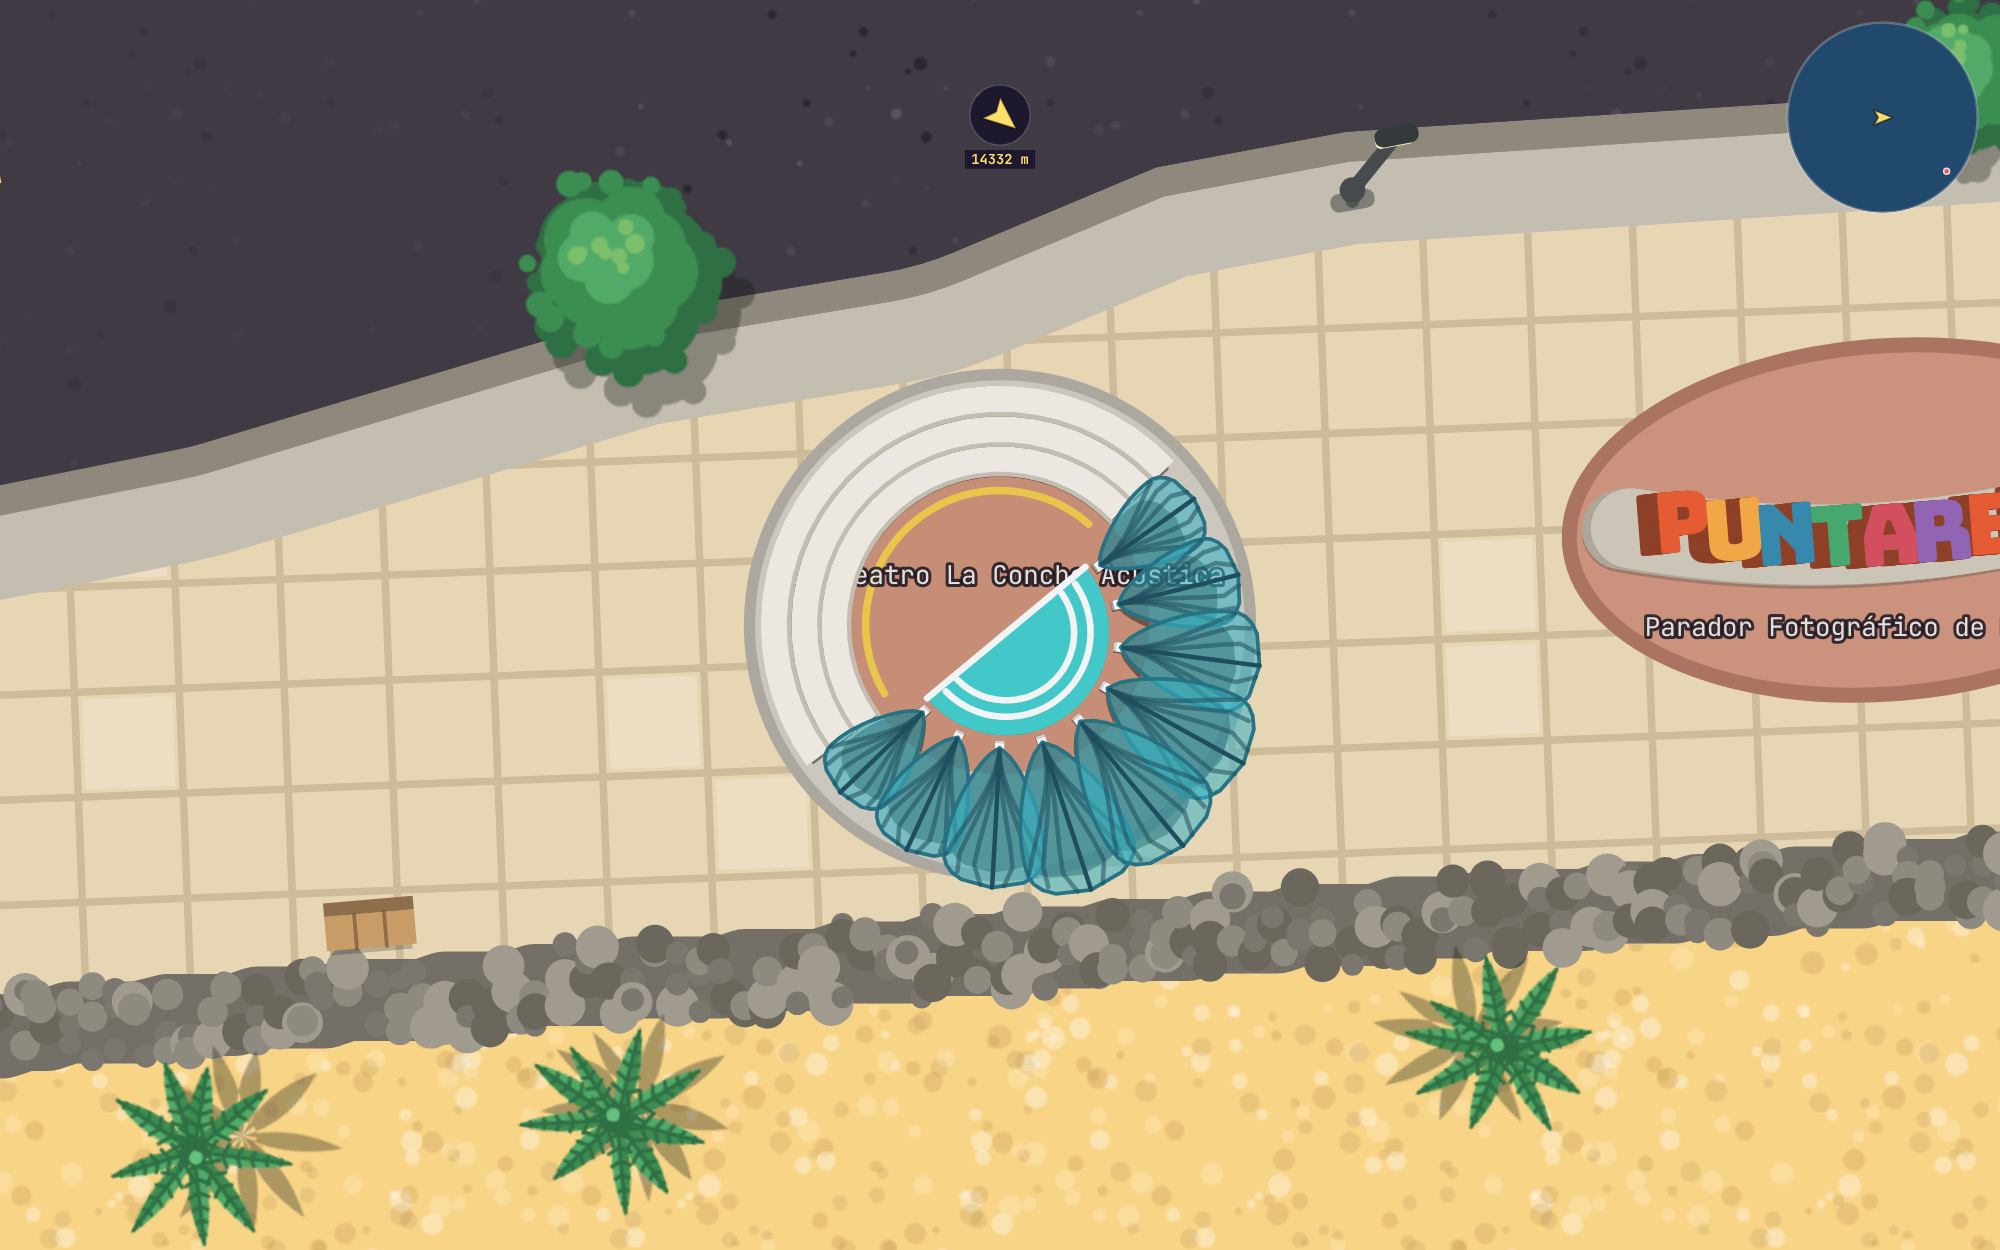
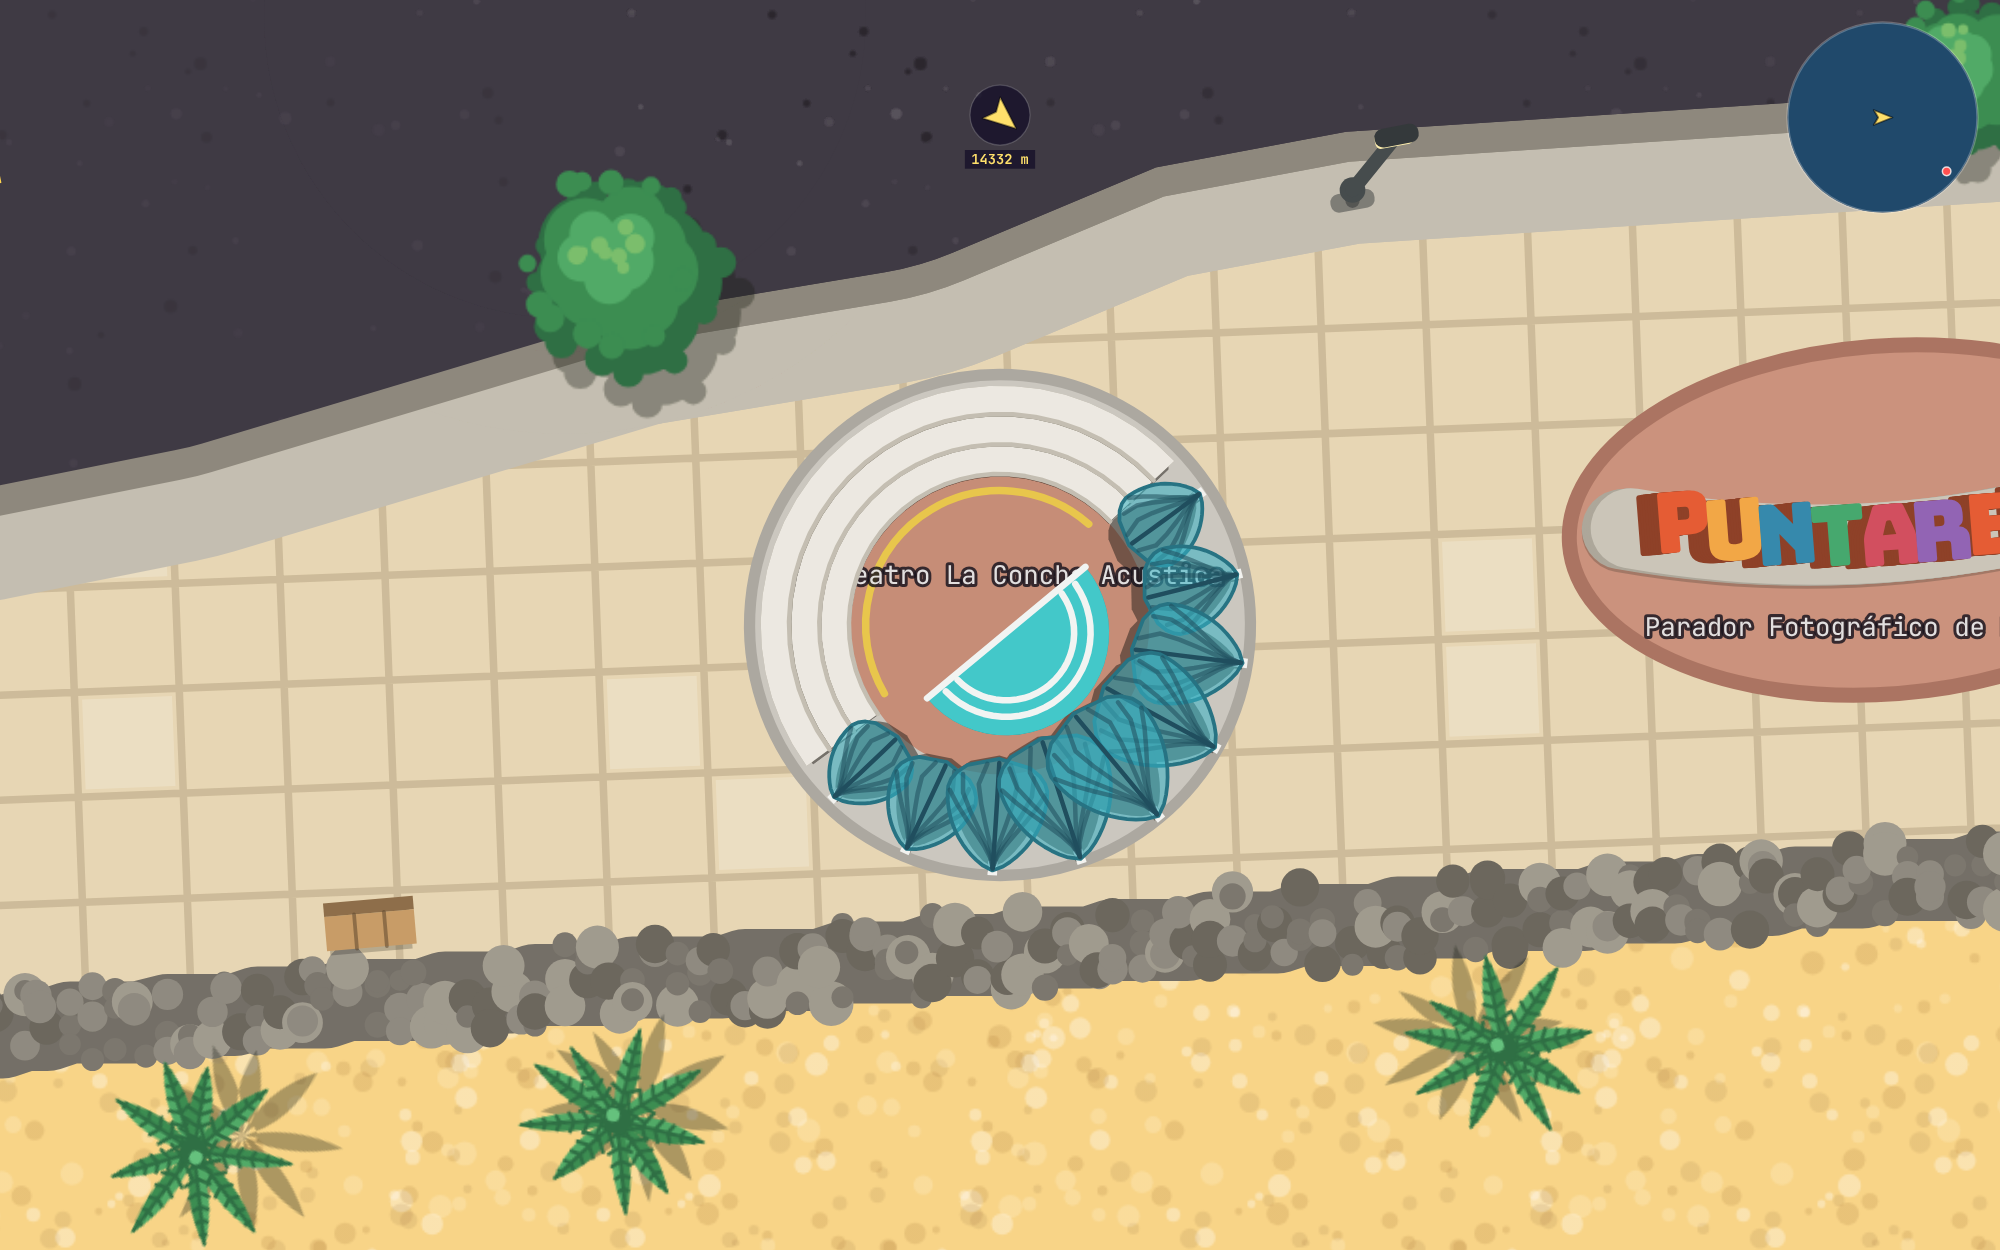
fix(render): las hojas de la Concha nacen atrás, del lado del mar, y se abren hacia el escenario
Claude-Session: https://claude.ai/code/session_018GSydgtbAbdgpJPFkJ2EAM

Changed region(s): [[0.403, 0.3744, 0.651, 0.7176]]

diff --git a/src/render/c2d/punta.js b/src/render/c2d/punta.js
@@ -335,11 +335,11 @@ function shellForm(Rg, Rm, C) {
 }
 
 // LAS HOJAS DE LA CONCHA, según la foto: abanicos turquesa translúcidos que nacen ANGOSTOS sobre un
-// pilar corto al borde del escenario y se abren hacia atrás y hacia arriba, hacia el mar, como la
-// concha acústica que son. Cada una apunta desde el centro (las bases no miran todas al mismo lado),
-// se traslapa con las vecinas, y no son iguales: las del centro, más grandes (`leafSizeK`). La
-// superficie se curva hacia arriba (`leafTopM`) y se ahueca de lado a lado (`leafCupM`); sus
-// nervios salen del pie como los de una concha. En 3D sobre el aparejo, sombra incluida.
+// pilar corto en el borde de atrás —del lado del mar, a `leafFromK` del radio— y se abren hacia
+// adentro y hacia arriba, sobre el escenario, como la concha acústica que son. Cada una apunta al
+// centro (las bases no miran todas al mismo lado), se traslapa con las vecinas, y no son iguales:
+// las del centro, más grandes (`leafSizeK`). La superficie sube hasta `leafTopM` y se ahueca de lado
+// a lado (`leafCupM`); sus nervios salen del pie como los de una concha. En 3D sobre el aparejo.
 function shellLeaves(Rg, Rm, C, cy) {
   const n = C.leaves, arc = C.leafArcDeg * RAD, [kSide, kMid] = C.leafSizeK;
   const rb = Rm * C.leafFromK, zb = C.leafBaseM, H = C.leafTopM - zb, cup = C.leafCupM, tipK = 0.75;
@@ -350,7 +350,7 @@ function shellLeaves(Rg, Rm, C, cy) {
     const L = Rm * C.leafLen * size, W = Rm * C.leafW * size, bx = dx * rb, by = cy + dy * rb;
     const w = (q) => W * (q <= tipK ? Math.pow(Math.sin(Math.PI / 2 * q / tipK), 0.7) : Math.sqrt(Math.max(0, 1 - ((q - tipK) / (1 - tipK)) ** 2)));
     const pt = (q, t) => {
-      const r = q * L, side = w(q) * t;
+      const r = -q * L, side = w(q) * t;   // del pie (afuera, del lado del mar) hacia el escenario
       return [bx + dx * r + tx * side, by + dy * r + ty * side, zb + H * Math.sin(q * Math.PI * 0.6) / Math.sin(Math.PI * 0.6) - cup * t * t * q];
     };
     Rg.at(zb, () => Rg.box(bx, by, 0, zb, C.pillarM, C.pillarM, { top: C.pillar, side: C.pillar }, a));
